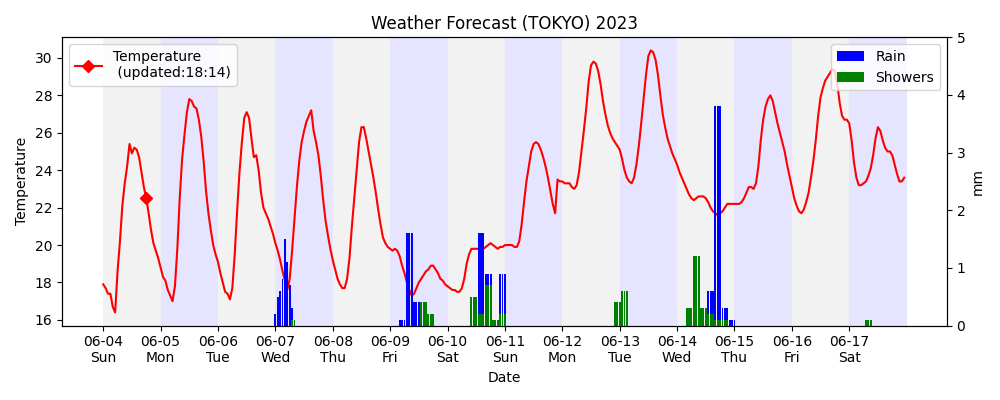
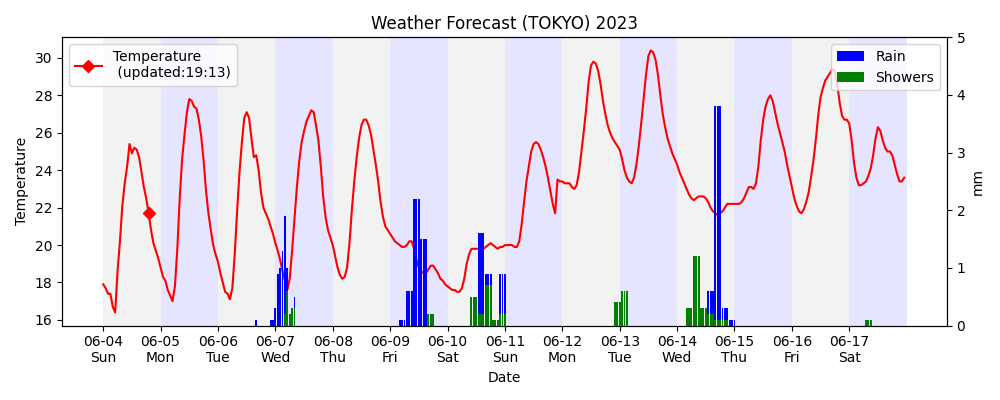
deploy: 8702881afb15f151d8a9fa59ef8a1a76b3d0855b

Changed region(s): [[0.31, 0.27, 0.434, 0.81], [0.279, 0.72, 0.31, 0.81], [0.124, 0.48, 0.155, 0.54]]

diff --git a/docs/src/dashboard/forecast_text.html b/docs/src/dashboard/forecast_text.html
@@ -6,7 +6,15 @@
 </head>
 <body>
     <h3>今日の天気 (06-04 Sun)</h3>
-    この日の東京の天気は、午前中は曇りから晴れとなり、最高気温は21℃から25℃程度まで上昇する見込みです。降水確率は0%で、雨やにわか雨は予想されていません。午後からは曇りがちとなり、最低気温は17℃から19℃程度となるでしょう。また、一部で雷を伴う可能性もあります。天候に注意しながら、外出することをお勧めします。
+    2023年6月4日の東京の天気予報は以下の通りです。
 
-    (更新：06/04 07:11)
+時間帯: 00:00~23:00
+天気: 晴れのち曇り、一時的に小雨の可能性あり
+気温: 最低気温17.4℃、最高気温25.4℃
+降水量: 0.0mm
+突風: 0.0mm
+
+ただし、天気は予測に基づくものであり、予告なく変更される可能性があります。あらかじめご了承ください。
+
+    (更新：06/04 19:08)
 </html>

diff --git a/docs/src/dashboard/marketinfo.html b/docs/src/dashboard/marketinfo.html
@@ -33,7 +33,7 @@
             <td>138.822</td>
             <td>138.605</td>
             <td>140.072</td>
-            <td>2023-06-04 18:14:04</td>
+            <td>2023-06-04 19:13:57</td>
         </tr>
     </table>
 
